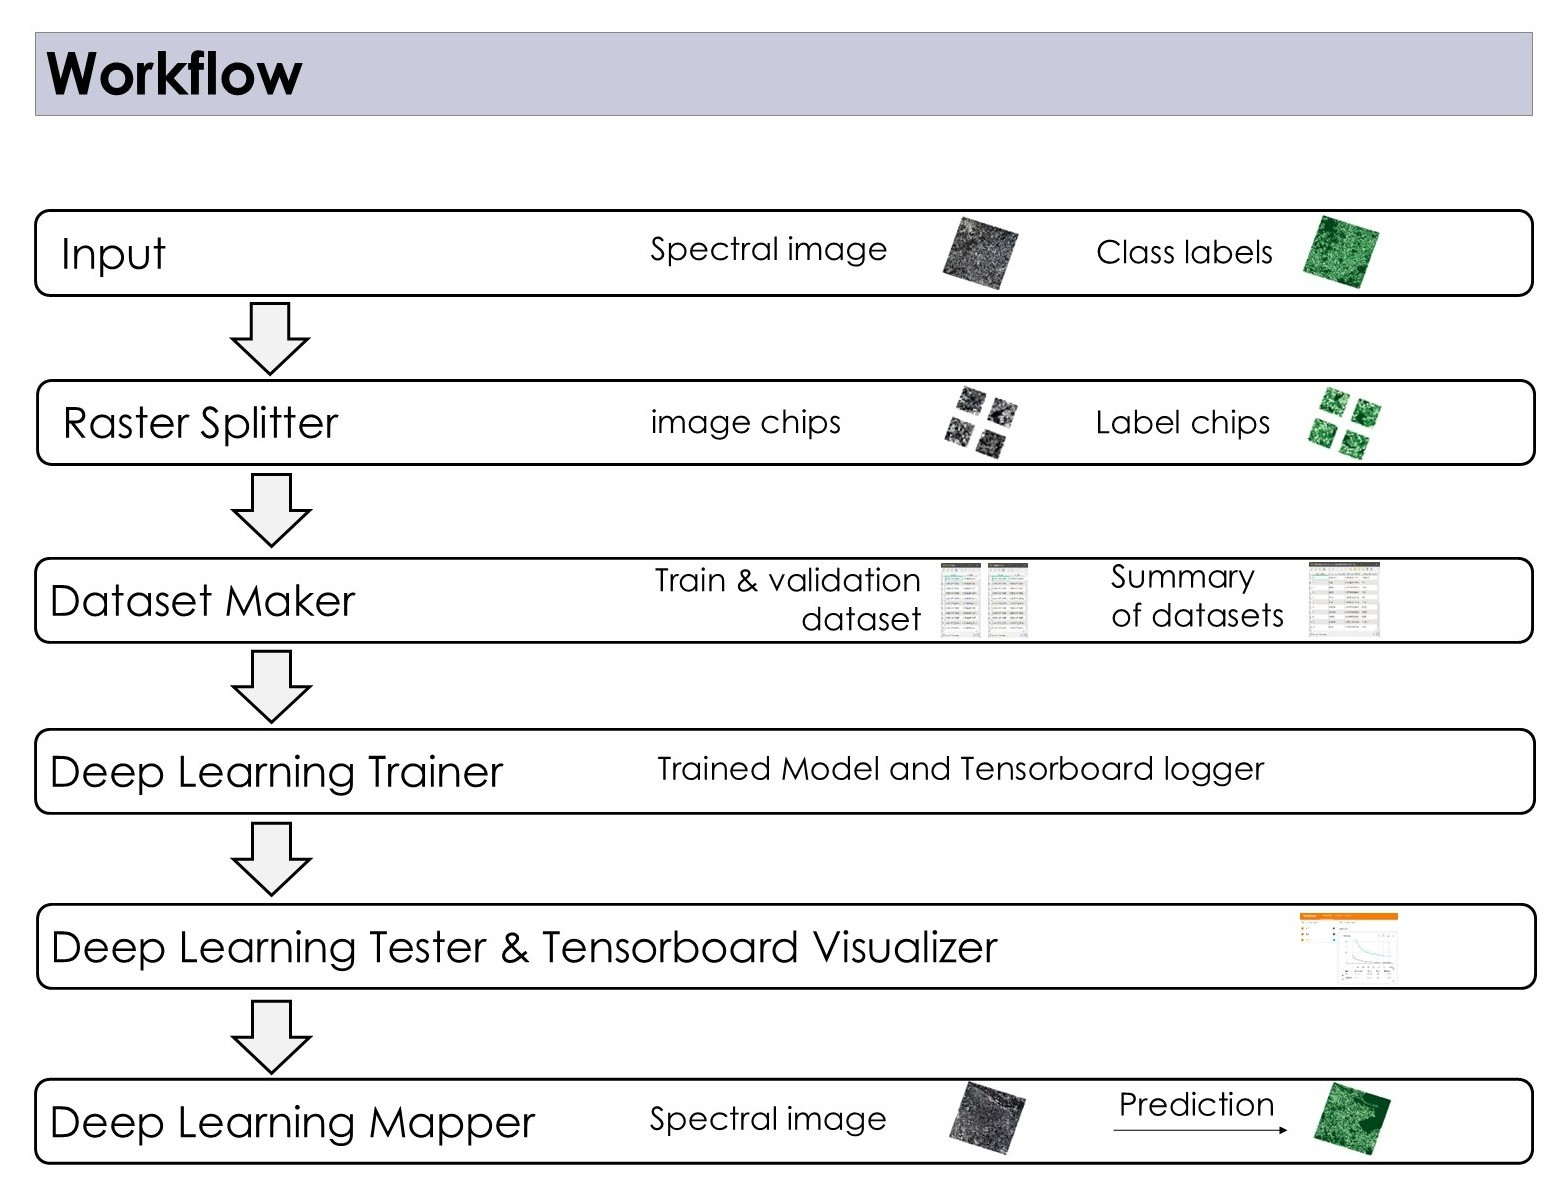
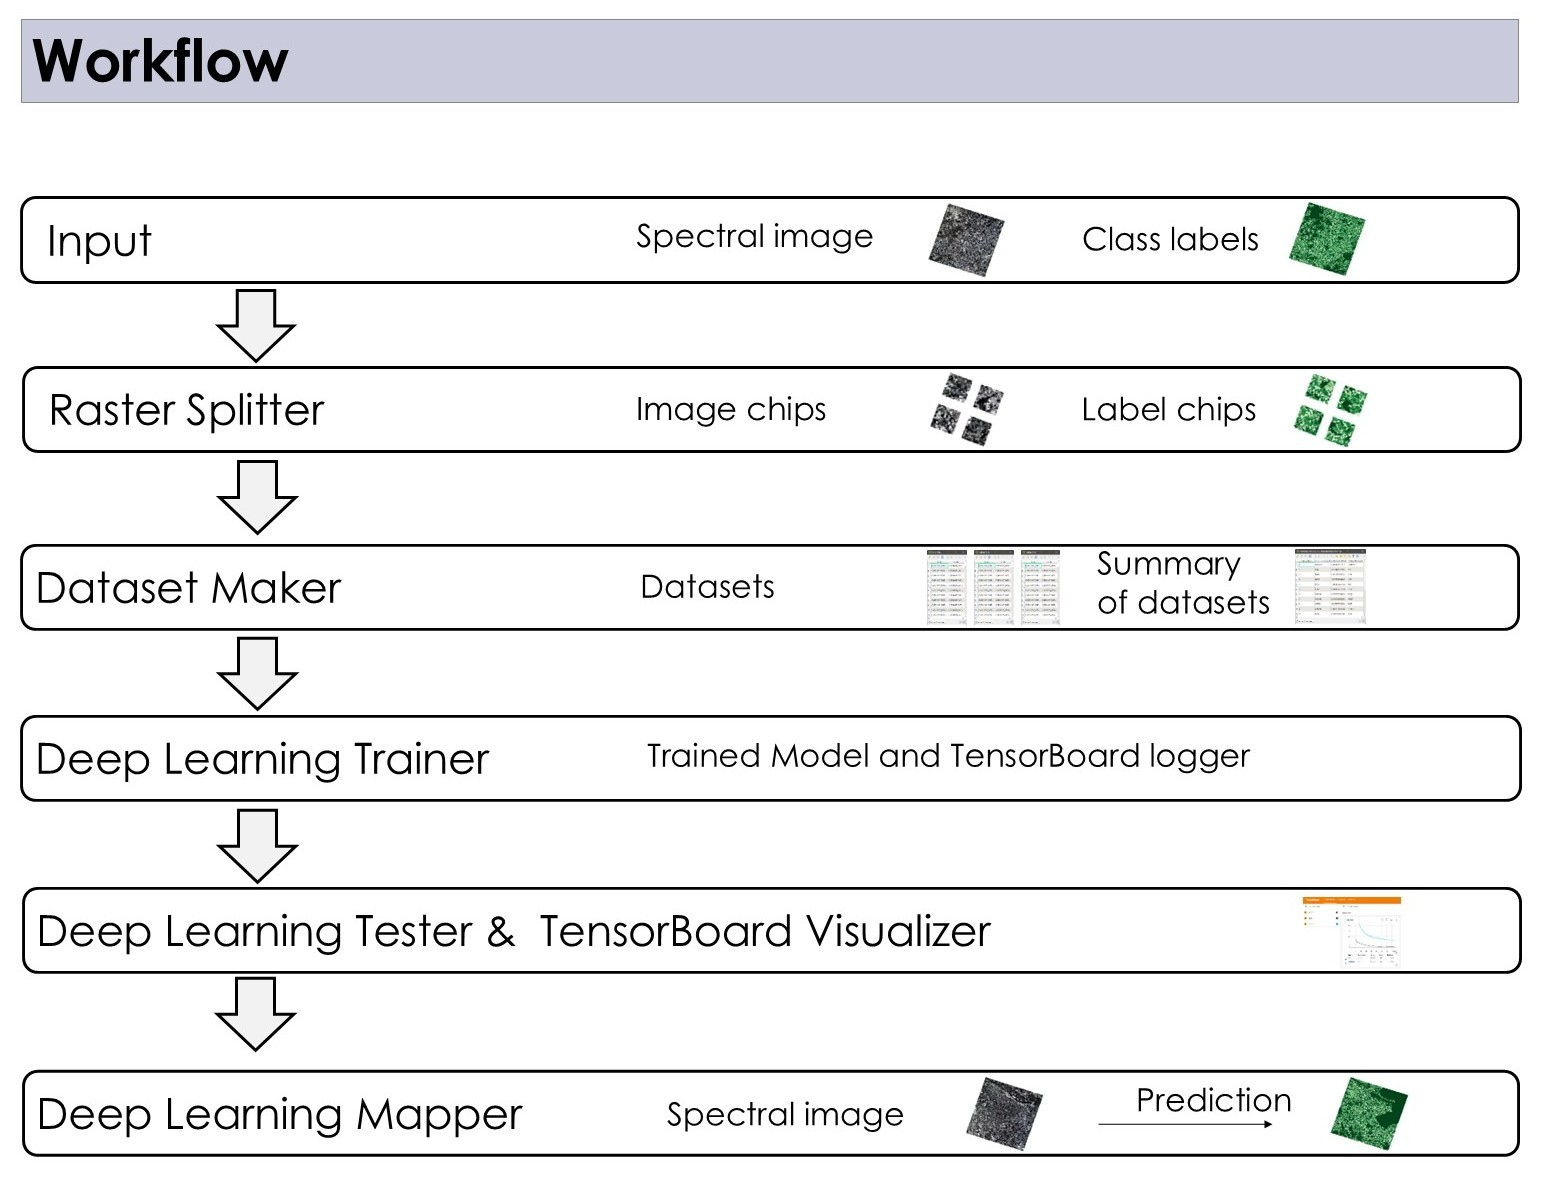
#removed -y flag in install commands, updated tensorboard name to TensorBoard Visualizer. Fixed TesnorBoard Visualizer name also in workflow image in readme

diff --git a/enmapbox/apps/SpecDeepMap/processing_algorithm_tensorboard_visualizer.py b/enmapbox/apps/SpecDeepMap/processing_algorithm_tensorboard_visualizer.py
@@ -10,13 +10,7 @@ from qgis.core import (QgsProcessingAlgorithm,
 
 class Tensorboard_visualizer(QgsProcessingAlgorithm):
     """
-    This is an example algorithm that takes a vector layer and
-    creates a new identical one.
-
-    It is meant to be used as an example of how to create your own
-    algorithms and explain methods and variables used to do it. An
-    algorithm like this will be available in all elements, and there
-    is not need for additional work.
+    This is an example algorithm display.
 
     All Processing algorithms should extend the QgsProcessingAlgorithm
     class.
@@ -45,14 +39,14 @@ class Tensorboard_visualizer(QgsProcessingAlgorithm):
         lowercase alphanumeric characters only and no spaces or other
         formatting characters.
         """
-        return 'Tensorboard'
+        return 'TensorBoard Visualizer'
 
     def displayName(self):
         """
         Returns the translated algorithm name, which should be used for any
         user-visible display of the algorithm name.
         """
-        return self.tr('Tensorboard')
+        return self.tr('TensorBoard Visualizer')
 
     def group(self):
         """
@@ -82,11 +76,11 @@ class Tensorboard_visualizer(QgsProcessingAlgorithm):
     def shortHelpString(self):
 
         html = '' \
-               '<p>This algorithm opens a Tensoboard (currently only for Windows system available, if used on linux, open a different port everytime you want to initate a tesnorboard). A Tensorboard is an interactive visualization tool to explore the trainings and validations metrics and losses.</p>' \
+               '<p>This algorithm opens a TensorBoard (currently only for Windows system available, if used on linux, open a different port everytime you want to launch a TensorBoard). A TensorBoard is an interactive visualization tool to explore the trainings and validations metrics and losses. More details on TensorBoard you can find here: https://www.tensorflow.org/tensorboard  </p>' \
                '<h3>TensorBoard Log Directory</h3>' \
                '<p>The path which was defined during training to save model and logs.</p>' \
                '<h3>TensorBoard Port (Optional) </h3>' \
-               '<p>Here you can define an additional local port to open a Tensorboard. When opening the Tensorboard it is checked if the defined port is already used for a tensorboard, if so its closed and the new tensorboard is initalized instead </p>'
+               '<p>Here you can define an additional local port to open a TensorBoard. When opening the TensorBoard it is checked if the defined port is already used for a TensorBoard, if so its closed and the new TensorBoard is launched instead </p>'
         return html
 
     def initAlgorithm(self, config=None):

diff --git a/enmapbox/apps/SpecDeepMap/README.md b/enmapbox/apps/SpecDeepMap/README.md
@@ -83,7 +83,7 @@ conda activate specdeepmap
 This download is large (\~4.5 GB).
 
 ```bash
-pip install torch torchvision torchaudio --index-url https://download.pytorch.org/whl/cu124 -y --force-reinstall
+pip install torch torchvision torchaudio --index-url https://download.pytorch.org/whl/cu124 --force-reinstall
 ```
 
 Note: It is also possible to setup  CUDA via the OSGeo4W Shell on Windows. First, install the CUDA Toolkit: [https://developer.nvidia.com/cuda-downloads](https://developer.nvidia.com/cuda-downloads), then run Step 2 in the OSGeo4W Shell.
